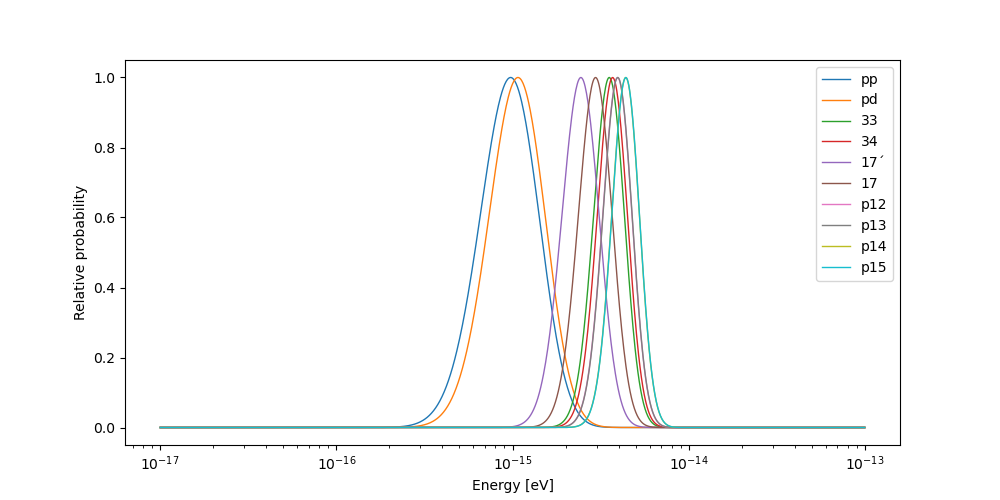
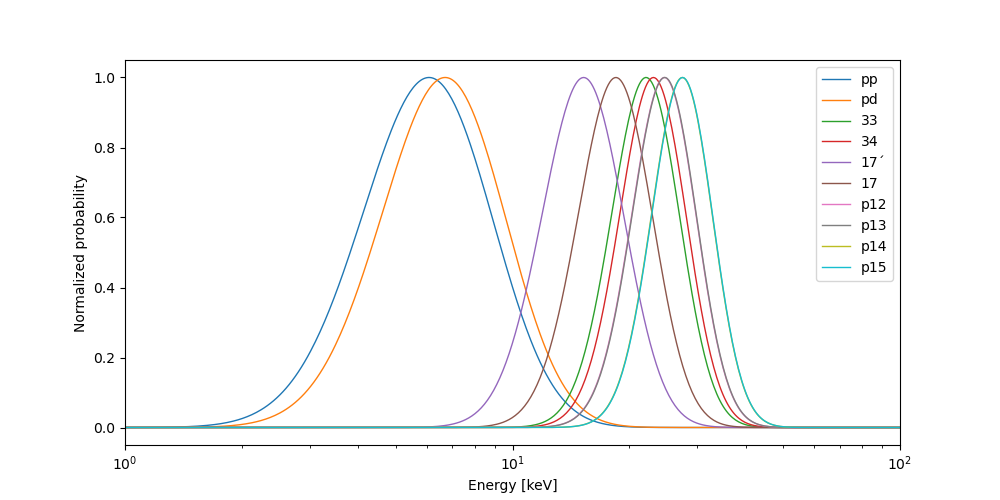
Narrowed in the plot in gamow

diff --git a/project-1/gamow.py b/project-1/gamow.py
@@ -43,27 +43,27 @@ def lambda_sigma(m_i, m_k, Z_i, Z_k, energy):
 	function and the the tunneling effect cross section.
 	'''
 	gamow = lmbda * sigma
-	idx = np.where(gamow == np.max(gamow))[0][0]
+	idx = np.where(gamow == np.max(gamow))[0][0]	# Extracting the (first) index where the gamow variable has its peak
 	peak = gamow[idx]
 
-	return gamow / peak
+	return gamow / peak								# Returning the normalized gamow curve
 
 
 '''
 Defining element masses in atomic mass units
 '''
-H1 = 1.007825 * m_u			# Hydrogen mass in u 
-D2 = 2.014 * m_u			# Deuterium mass in u 
-He3 = 3.016 * m_u 			# Helium-3 mass in u 
-He4 = 4.0026 * m_u			# Helium-4 mass in u
-Be7 = 7.01693 * m_u			# Beryllium-7 mass in u
-Li7 = 7.016004 * m_u		# Lithium-7 mass in u 
+H1 = 1.007825 * m_u			# Hydrogen mass in kg
+D2 = 2.014 * m_u			# Deuterium mass in kg
+He3 = 3.016 * m_u 			# Helium-3 mass in kg
+He4 = 4.0026 * m_u			# Helium-4 mass in kg
+Be7 = 7.01693 * m_u			# Beryllium-7 mass in kg
+Li7 = 7.016004 * m_u		# Lithium-7 mass in kg
 
-C12 = 12. * m_u				# Carbon-12 mass in u 
-C13 = 13.00336 * m_u		# Carbon-13 mass in u 
-N13 = 13.00574 * m_u		# Nitrogen-13 mass in u 
-N14 = 14.00307 * m_u		# Nitrogen-14 mass in u 
-N15 = 15.00109 * m_u		# Nitrogen-15 mass in u
+C12 = 12. * m_u				# Carbon-12 mass in kg
+C13 = 13.00336 * m_u		# Carbon-13 mass in kg
+N13 = 13.00574 * m_u		# Nitrogen-13 mass in kg
+N14 = 14.00307 * m_u		# Nitrogen-14 mass in kg
+N15 = 15.00109 * m_u		# Nitrogen-15 mass in kg
 
 '''
 Defining atomic numbers
@@ -100,18 +100,16 @@ CNO_2 = lambda_sigma(C13, H1, Z_C, Z_H, E)
 CNO_3 = lambda_sigma(N14, H1, Z_N, Z_H, E)
 CNO_4 = lambda_sigma(N15, H1, Z_N, Z_H, E)
 
-tot_prob = 1#np.sum(PP0_1 + PP0_2 + PP1 + PP2_1 + PP2_2 + PP3 + CNO_1 + CNO_2 + CNO_3 + CNO_4)
-
-rel_prob[0, :] = PP0_1 / tot_prob 
-rel_prob[1, :] = PP0_2 / tot_prob 
-rel_prob[2, :] = PP1 / tot_prob
-rel_prob[3, :] = PP2_1 / tot_prob
-rel_prob[4, :] = PP2_2 / tot_prob
-rel_prob[5, :] = PP3 / tot_prob
-rel_prob[6, :] = CNO_1 / tot_prob
-rel_prob[7, :] = CNO_2 / tot_prob
-rel_prob[8, :] = CNO_3 / tot_prob
-rel_prob[9, :] = CNO_4 / tot_prob
+rel_prob[0, :] = PP0_1 
+rel_prob[1, :] = PP0_2 
+rel_prob[2, :] = PP1
+rel_prob[3, :] = PP2_1
+rel_prob[4, :] = PP2_2
+rel_prob[5, :] = PP3
+rel_prob[6, :] = CNO_1
+rel_prob[7, :] = CNO_2
+rel_prob[8, :] = CNO_3
+rel_prob[9, :] = CNO_4
 
 labels = ['pp', 'pd', '33', '34', '17´', '17', 'p12', 'p13', 'p14', 'p15']
 
@@ -119,11 +117,12 @@ plt.figure(figsize=(10, 5))
 
 for i in range(10):
 
-	plt.plot(E, rel_prob[i, :], label=labels[i])
+	plt.plot(E / (eV * 1e3), rel_prob[i, :], label=labels[i])	# Converting from Joules to keV
 
-plt.xlabel('Energy [eV]')
-plt.ylabel('Relative probability')
+plt.xlabel('Energy [keV]')
+plt.ylabel('Normalized probability')
 plt.xscale('log')
+plt.xlim([1, 100])
 
 plt.legend()
 plt.savefig('figures/gamow.pdf')
